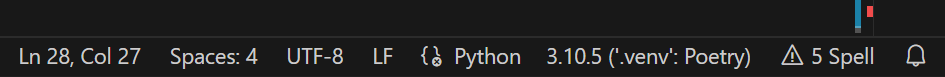
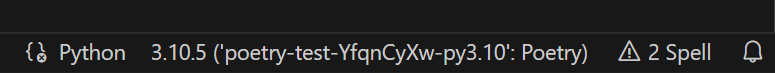
Fiks beskrivelse for Poetry i VS Code

diff --git a/innhold/kap3/1_pakkebehandler.md b/innhold/kap3/1_pakkebehandler.md
@@ -279,24 +279,26 @@ poetry run python <filnavn>.py
 
 ### Få Poetry til å fungere med VS Code
 
-Hvis du bruker VS Code vil den ofte finne ut av seg selv hvordan prosjektet er satt opp (mer presist, at det er opprettet er virtuelt miljø for prosjektet), så "play"-knappen vil trolig fungere som før. 
+Hvis vi fortsatt vil kjøre programmer fra VS Code ved å trykke på "play"-knappen, må vi fortelle VS Code hvilken Python-fortolker den nå skal bruke. Det er fordi Poetry lager en egen folder for prosjektet med en Python-fortolker og pakkene vi installerer.
 
-I motsatt fall går det an å fortelle VS Code hva slags Python-fortolker den skal bruke. Helt nederst i VS Code er det en slags menylinje med informasjon, på høyresiden av denne står det Python og versjonsnummeret for Python-installasjonen. 
-
-![Høyre side av bunnmenyen i VS Code](bilder/vscode-bunnmeny.png)
-
-Hvis det står noe om `venv` ved siden av versjonsnummeret bør alt være i orden, hvis ikke, klikk på versjonsnummeret og se om det kommer opp en valgmulighet i toppmenyen for å velge Python-fortolker.
-
-![Meny i VS Code for å velge Pyton-fortolker](bilder/velg-fortolker.png)
-
-Om et av valgene inneholder noe med `venv`, velg denne. Ellers kan man fra en terminal få Poetry til å liste opp miljøer med følgende kommando:
+For å finne stien til Python-fortolkeren til Poetry kan man kjøre følgende kommando i terminalen.
 
 ```shell
 poetry env info
 ```
-Da vil det listes opp miljøer tilsvarende bildet under. I menyen i VS Code kan man velge å legge til sti for kjørbar fortolker selv. Forsøk å legge inn stien fra `executable` under `virtualenv` som innholder stien til mappa der du initialiserte Poetry 
+Det vil da listes opp miljøer tilsvarende bildet under. Kopier ut stien som er i `executable` under `virtualenv`.
 
 ![Skjermbilde av det som skrives ut når man kjører ](bilder/poetry-env-info.png)
+
+For å sette Python-fortolker i VS Code, kan du gå til `View` i toppmenyen i VS Code, og deretter velge `Command Palette...`. Begynn å skrive `python: select interpreter` i kommandofeltet, og klikk på samme tekst når det kommer som valg i nedtrekkslista.
+
+Da har du forhåpentligvis kommet til noe som ligner på bildet under, klikk på `Enter interpreter path`, og lim inn stien du kopierte fra terminalen.
+
+![Meny i VS Code for å velge Pyton-fortolker](bilder/velg-fortolker.png)
+
+Om du har valgt riktig fortolker bør det stå noe om `Poetry` i menylinja helt i bunnen av VS Code, ved siden av versjonsnummeret for Python. 
+
+![](bilder/vscode-bunnmeny.png)
 
 ### Kjør programmet
 
